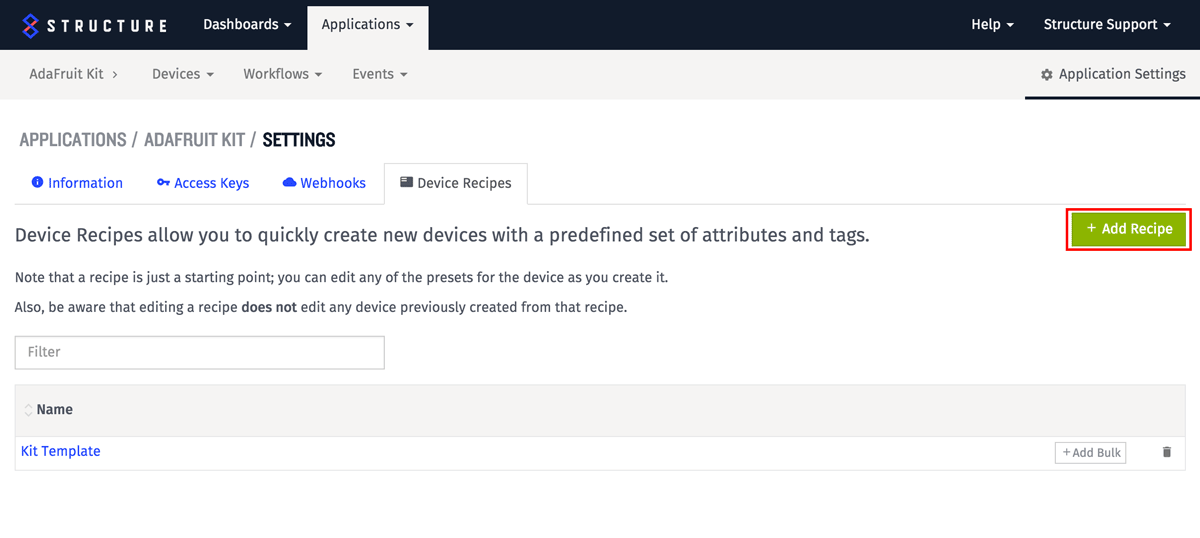
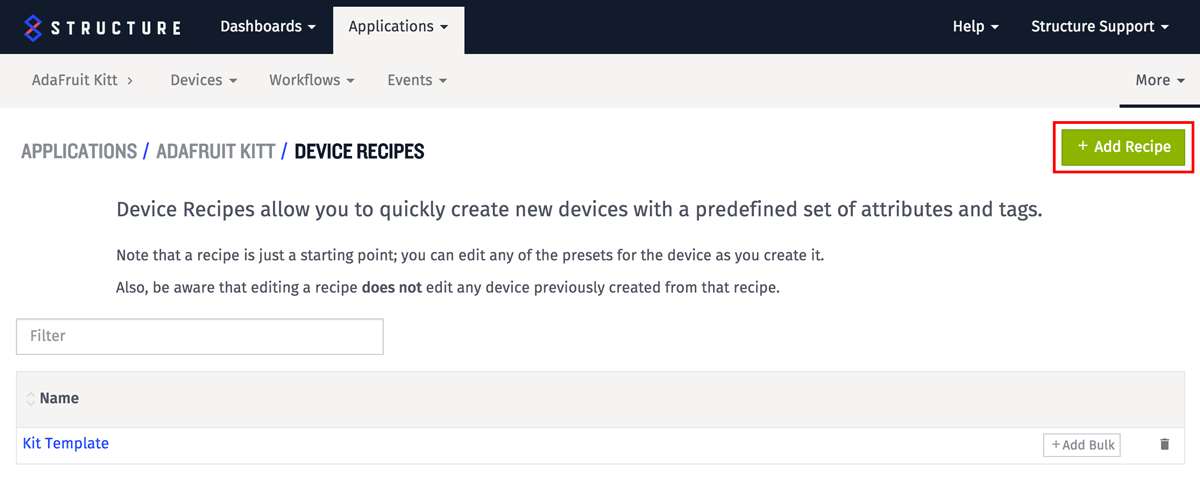
device recipes no longer under tabs

diff --git a/docs/devices/device-recipes.md b/docs/devices/device-recipes.md
@@ -4,7 +4,7 @@ A device recipe in Structure is a template (or 'recipe') for creating devices.  
 
 ## Adding a Device Recipe
 
-Device recipes can be added to your application in the `Device Recipes` tab under `Application Settings`.
+Device recipes can be added to your application on the `Device Recipes` page (accessible under the `More` menu).
 
 ![Add Device Recipe](/images/devices/add-device-recipe.png "Add Device Recipe")
 
